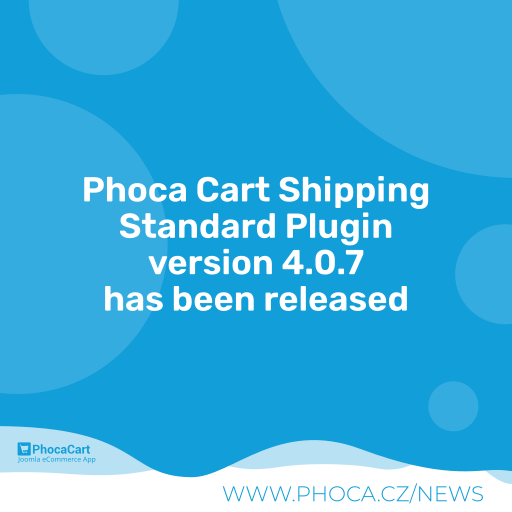
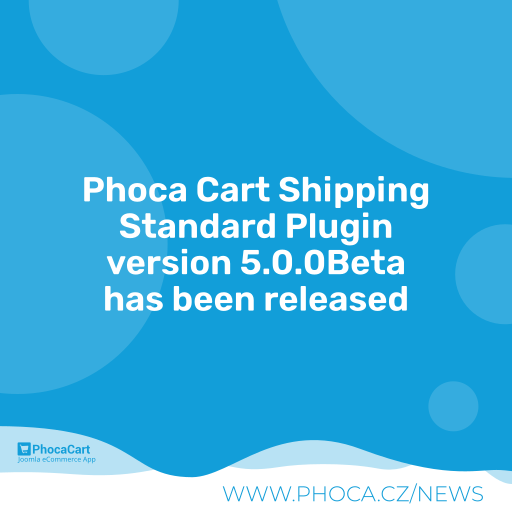
4.0.9

Changed region(s): [[0.1875, 0.4688, 0.8125, 0.5625]]

diff --git a/shipping_standard.php b/shipping_standard.php
@@ -8,6 +8,7 @@
  */
 
 defined('_JEXEC') or die;
+use Joomla\CMS\Plugin\CMSPlugin;
 jimport( 'joomla.plugin.plugin' );
 jimport( 'joomla.filesystem.file');
 jimport( 'joomla.html.parameter' );
@@ -17,7 +18,7 @@ jimport( 'joomla.html.parameter' );
 
 JLoader::registerPrefix('Phocacart', JPATH_ADMINISTRATOR . '/components/com_phocacart/libraries/phocacart');
 
-class plgPCSShipping_Standard extends JPlugin
+class plgPCSShipping_Standard extends CMSPlugin
 {
 	protected $name 	= 'shipping_standard';
 
@@ -75,7 +76,7 @@ class plgPCSShipping_Standard extends JPlugin
 		return true;
 
 	}
-	
+
 	function onPCSonInfoViewDisplayContent($data, $eventData){
 
 		if (!isset($eventData['pluginname']) || isset($eventData['pluginname']) && $eventData['pluginname'] != $this->name) {
@@ -89,6 +90,6 @@ class plgPCSShipping_Standard extends JPlugin
 
 	}
 	*/
-	
+
 }
 ?>

diff --git a/README.MD b/README.MD
@@ -60,7 +60,11 @@ Phoca Cart Shipping - Shipping Standard Plugin - shipping method for Phoca Cart 
 
 ## Version (Joomla! 4.x)
 
-4.0.7
+4.0.9
+
+## Version (Joomla! 5.x)
+
+5.0.0Beta
 
 
 
@@ -71,3 +75,17 @@ GNU/GPL
 
 
 This project is open source project - feel free to contribute! Thank you.
+
+
+
+## Social Media
+
+- [Phoca on Facebook](https://www.facebook.com/Phoca.cz)
+
+- [Phoca on X (Twitter)](https://twitter.com/PhocaCz)
+
+- [Phoca on YouTube](https://www.youtube.com/user/phocavideos)
+
+- [Phoca on GitHub](https://github.com/PhocaCz)
+
+- [Phoca on Reddit](https://www.reddit.com/user/PhocaCz)
